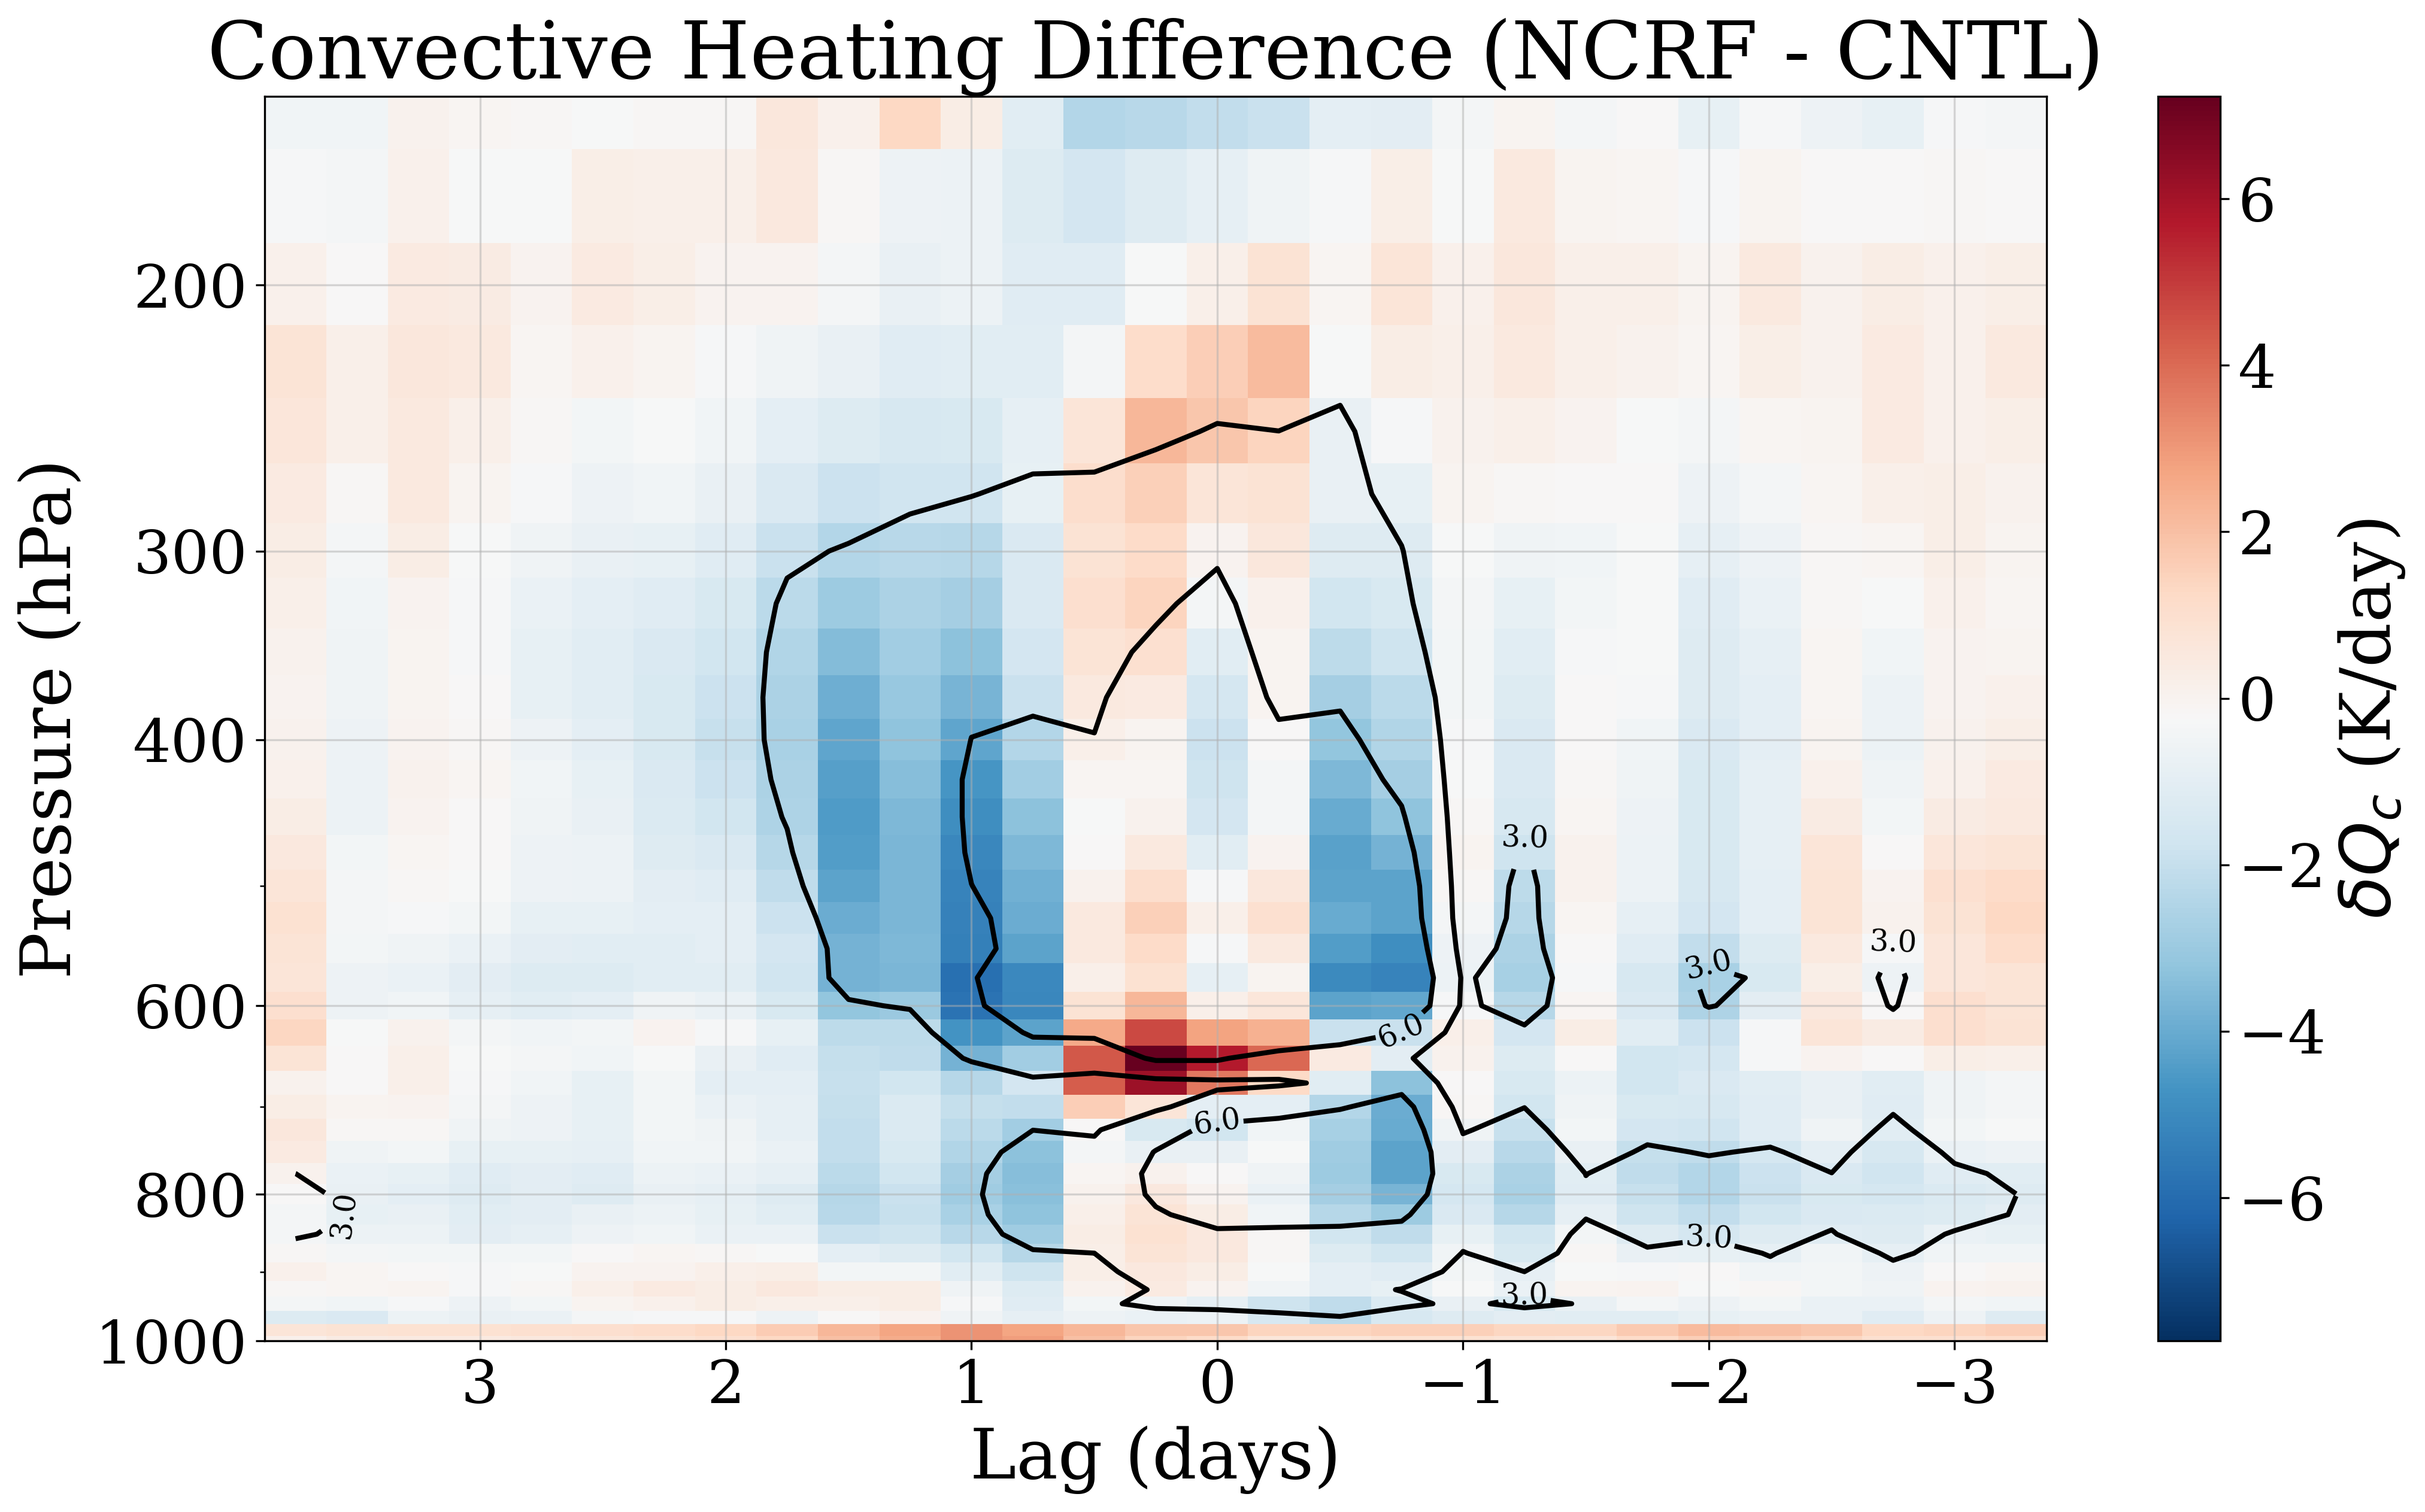
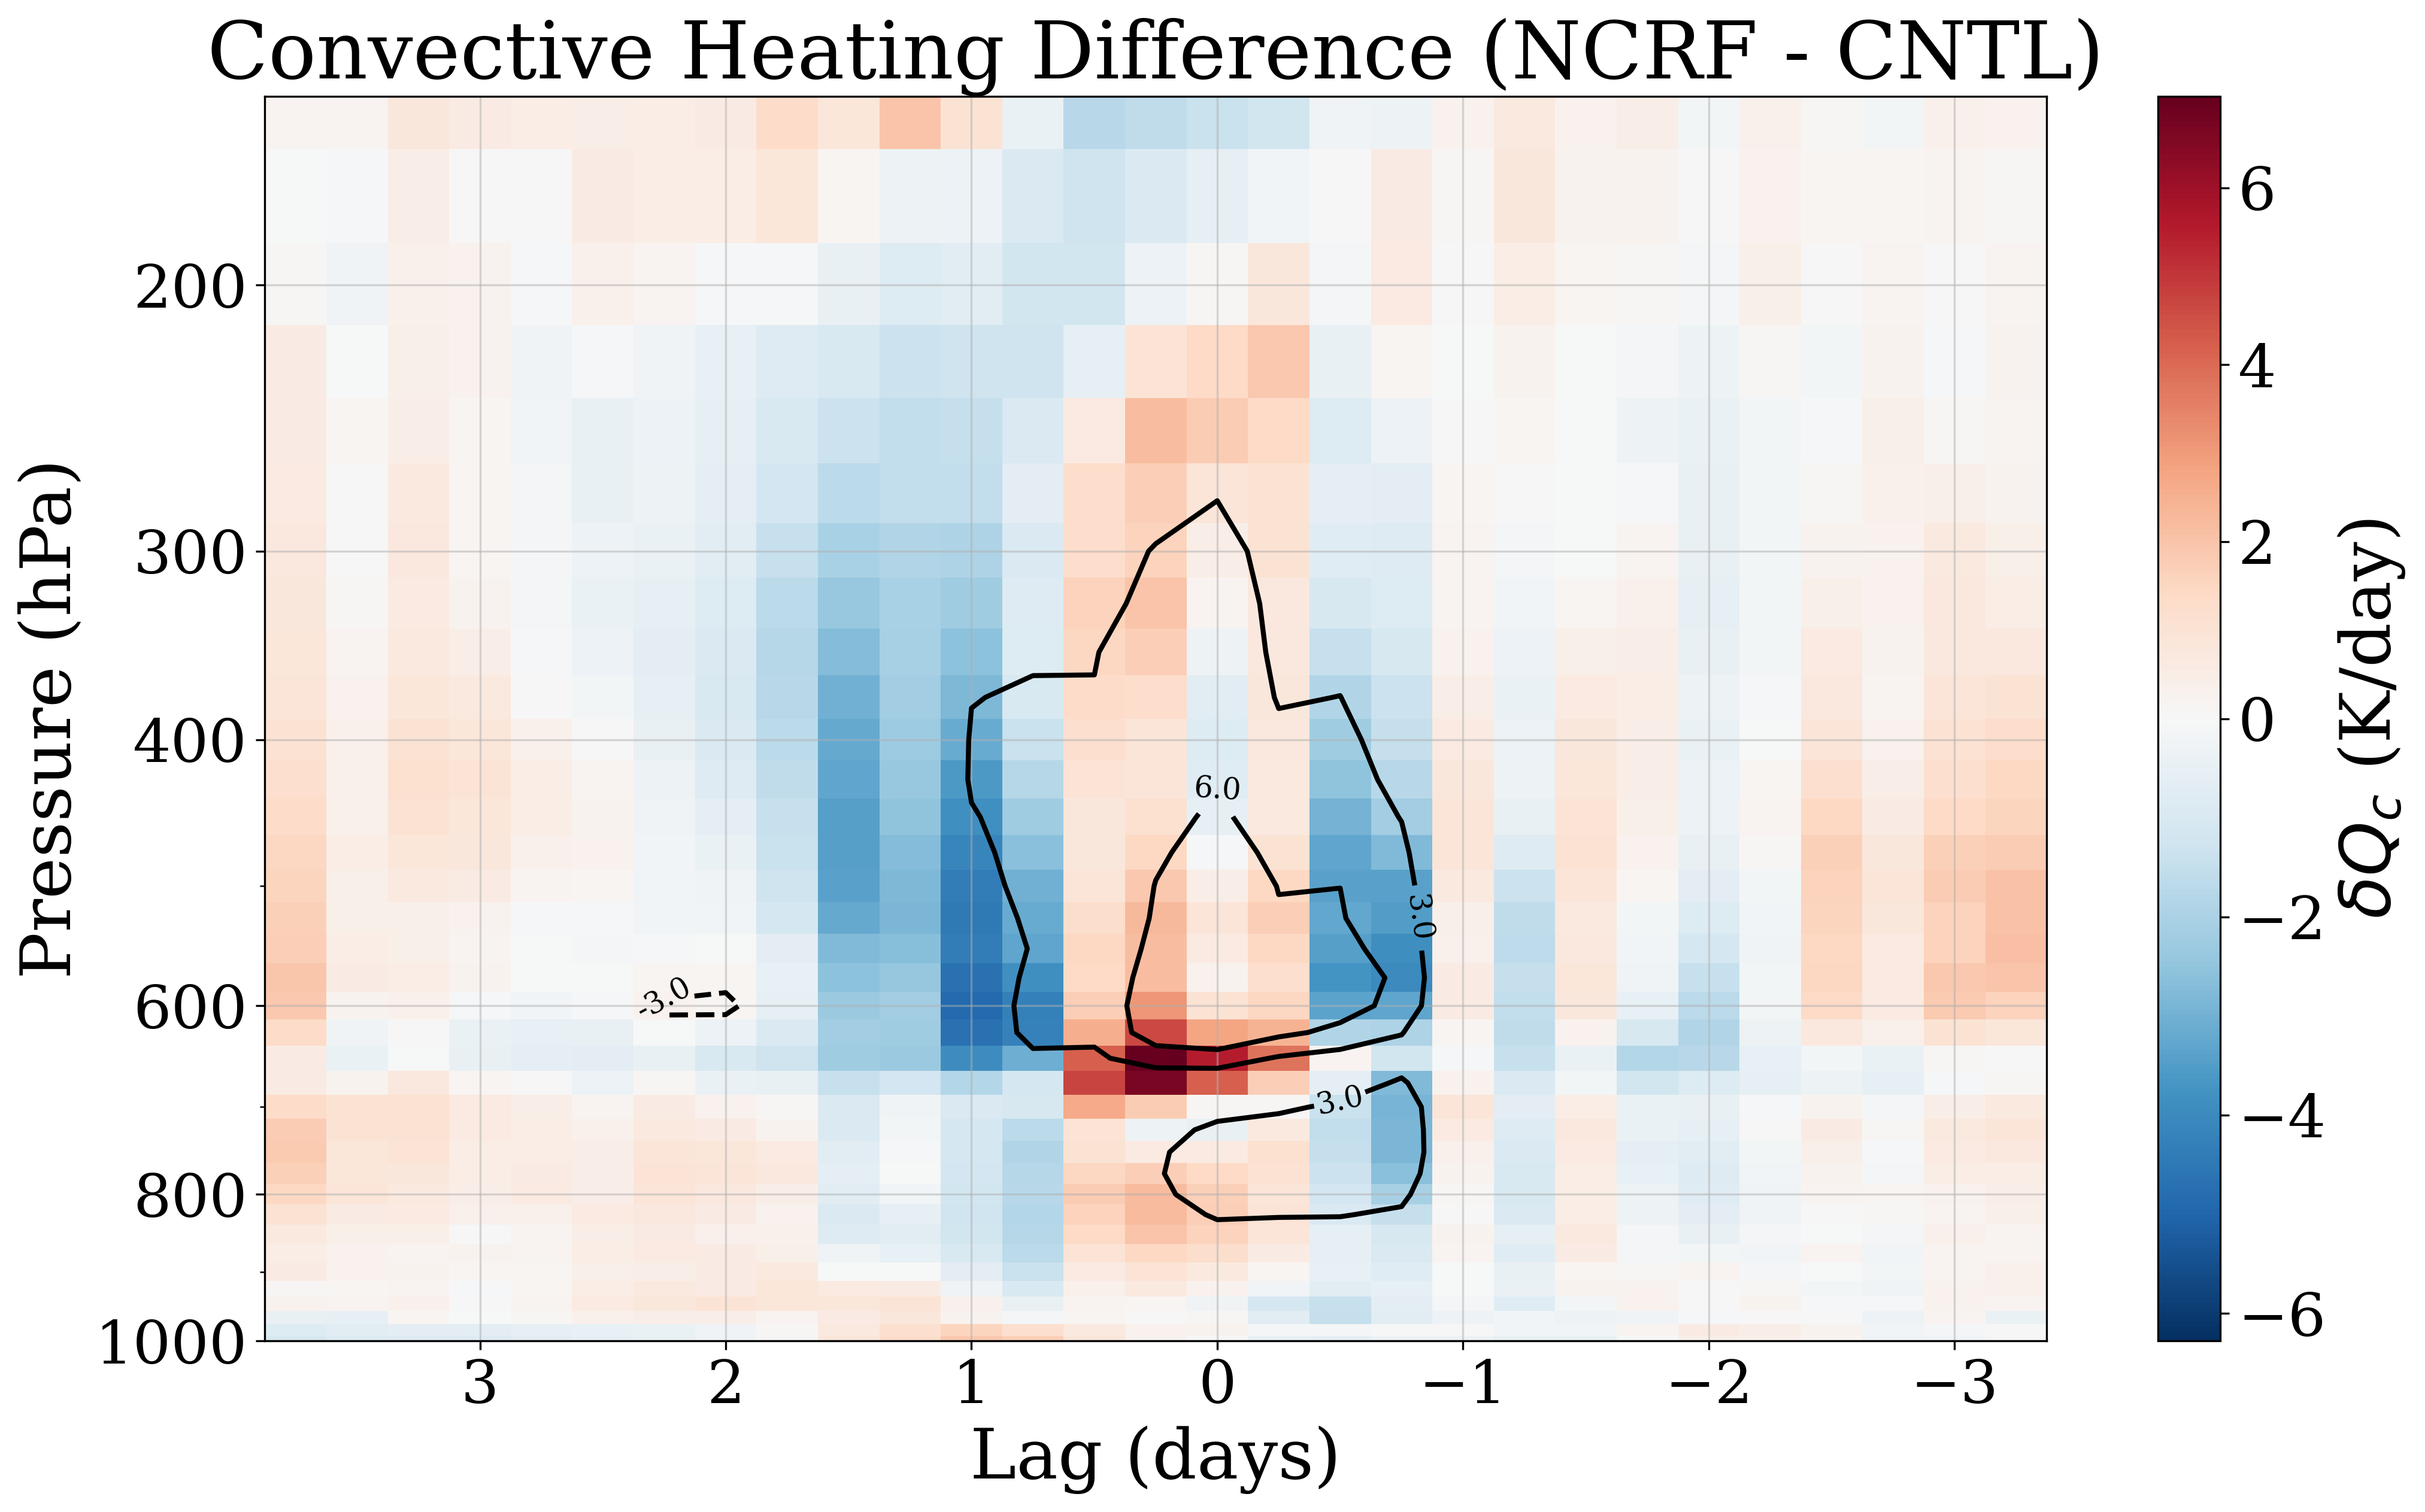
003AT20250722 ADD: new plot
Time: 2025/07/22 11:58 (UTC+8)
Editor: Yu-Chuan Kan
Objective: upload LW heating difference

diff --git a/Code/KW_Budget/Profile/LW_reg.py b/Code/KW_Budget/Profile/LW_reg.py
@@ -18,7 +18,7 @@ def main():
 
     exp_list: list[str] = ["CNTL", "NCRF"]
 
-    var_list: list[str] = ["qc"]
+    var_list: list[str] = ["rthratenlw"]
 
     iter_list: list[tuple] = list(product(exp_list, var_list))
 
@@ -42,13 +42,11 @@ def main():
 
     for exp, var in iter_list:
         with nc.Dataset(fpath + f"/{exp}/{var}.nc") as ds:
-            data[var][exp] = ds[var][-360:][..., lat_lim, :].mean(axis=2)
+            data[var][exp] = ds[var][-360:][..., lat_lim, :].mean(axis=2) * 86400
 
         print(f"Finished: Loading {exp} {var}")
 
     print("Finished: Loading data")
-
-
 
     # Load events
     with open("/home/b11209013/2025_Research/AOGS/File/events.json", "r") as f:
@@ -58,11 +56,6 @@ def main():
     with open("/home/b11209013/2025_Research/AOGS/File/boundary.json", "r") as f:
         bnd = json.load(f)
         
-
-    data = {
-        "qc": {exp: data["qc"][exp] - data["qc"][exp].mean(axis=(0, -1), keepdims=True )
-        for exp in exp_list}
-    }
 
     # ==== 2. rolling data ==== #
     center_idx = 360 // 2
@@ -82,13 +75,13 @@ def main():
     plt.figure(figsize=(16, 9))
     p = plt.pcolormesh(
         np.linspace(-3.25, 3.75, 29), dims["lev"],
-        data_sel["qc"]["NCRF"] - data_sel["qc"]["CNTL"],
-        norm=TwoSlopeNorm(vcenter=0.0),
+        data_sel["rthratenlw"]["NCRF"] - data_sel["rthratenlw"]["CNTL"],
+        norm=TwoSlopeNorm(0.0),
         cmap="RdBu_r", shading="auto"
     )
     ct = plt.contour(
         np.linspace(-3.25, 3.75, 29), dims["lev"],
-        data_sel["qc"]["CNTL"], levels=[-6, -3, 3, 6]
+        data_sel["rthratenlw"]["CNTL"], levels=[-6, -3, 3, 6]
         , colors="k", linewidths=2
     )
     plt.gca().invert_xaxis()
@@ -99,10 +92,10 @@ def main():
     plt.yticks([1000, 800, 600, 400, 300, 200],
                 ["1000", "800", "600", "400", "300", "200"])
     plt.ylim(1000, 150)
-    plt.title("Convective Heating Difference (NCRF - CNTL)")
+    plt.title("LW Heating Difference (NCRF - CNTL)")
     plt.clabel(ct, inline=True, fontsize=12, fmt="%.1f")
-    plt.colorbar(p, label=r"$\delta Q_c$ (K/day)")
-    plt.savefig("/home/b11209013/2025_Research/AOGS/Figure/dqc.png", dpi=300, bbox_inches="tight")
+    plt.colorbar(p, label=r"$\delta Q_{LW}$ (K/day)")
+    plt.savefig("/home/b11209013/2025_Research/AOGS/Figure/dqlw.png", dpi=300, bbox_inches="tight")
     plt.close()
     print("Finished: Plotting data") 
     
